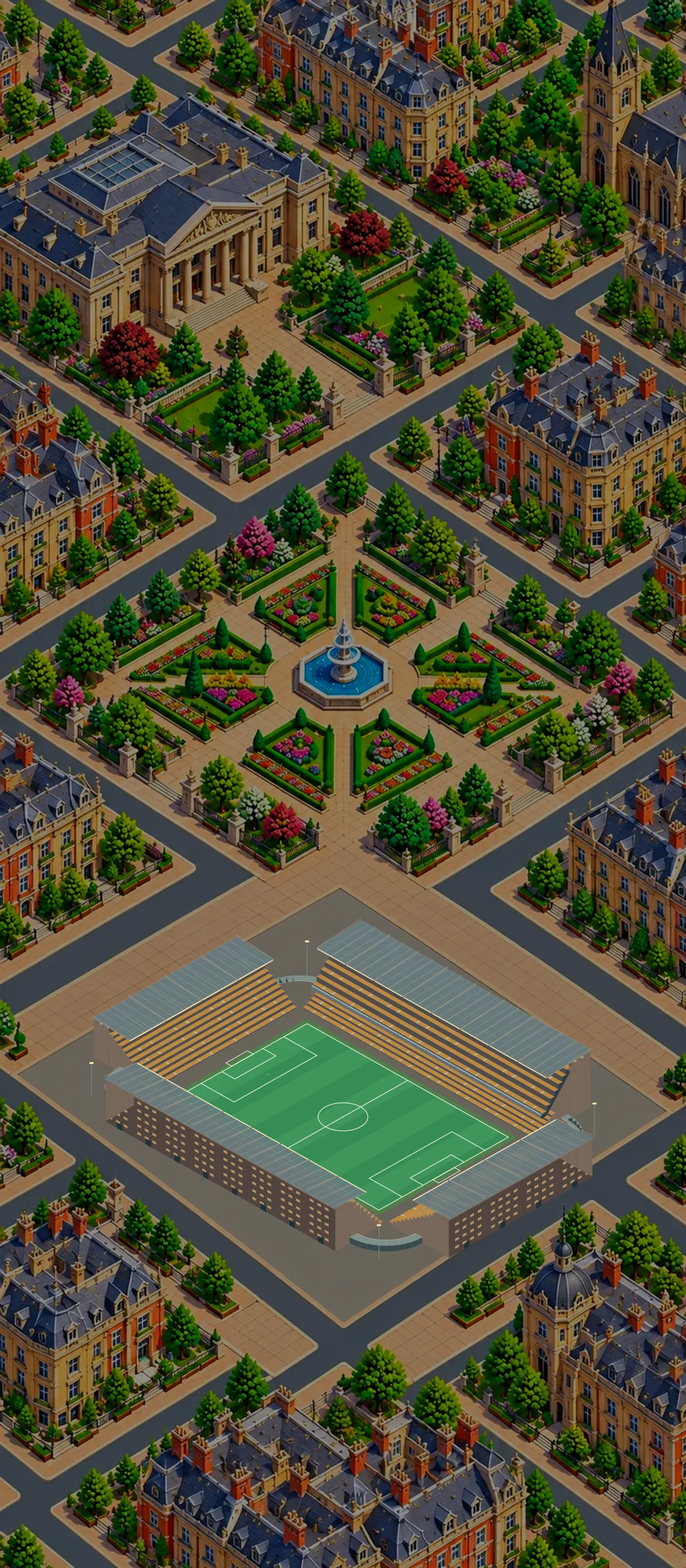
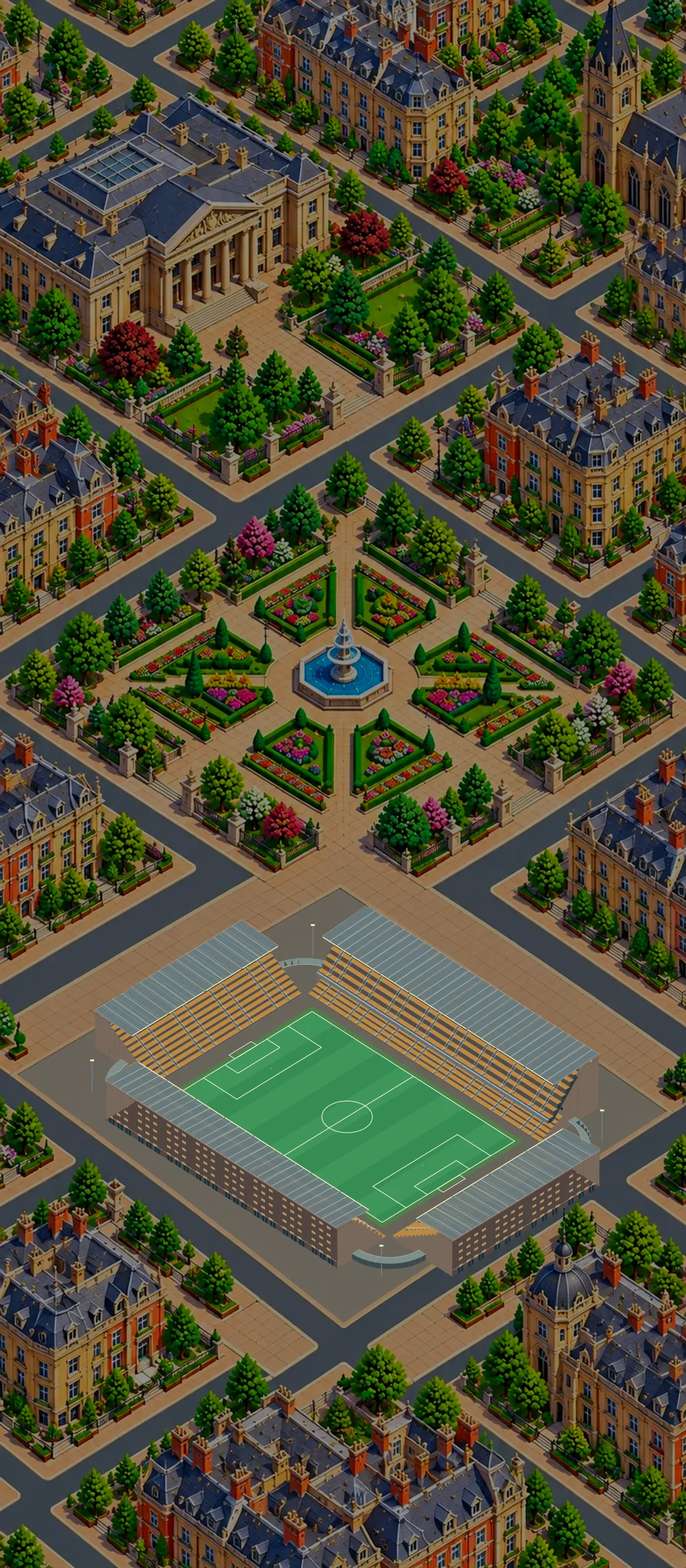
Add files via upload

Changed region(s): [[0.1236, 0.5591, 0.8655, 0.8387]]

diff --git a/scene.js b/scene.js
@@ -2,14 +2,16 @@ import {SECTIONS,STANDS,normaliseLayout,defaultLayout} from './stadium-model.js'
 import {groundsStand} from './grounds-geometry.js';
 // Fixed site plots share the stadium grid. No stadium translation or rotation is exposed.
 const SITE={
- city:{art:'top-city-redevelopment-v2',origin:[415,1200],tile:[6.35,3.62],scale:1.24},
- harbour:{art:'top-city-redevelopment-v2',origin:[415,1200],tile:[6.35,3.62],scale:1.24},
- civic:{art:'top-civic-quarter-v2',origin:[415,1150],tile:[6.4,3.6],scale:1.24},
- riverside:{art:'top-riverside-quarter-v2',origin:[415,1140],tile:[6.4,3.6],scale:1.24},
- gardens:{art:'top-civic-gardens-v2',origin:[415,1350],tile:[6.3,3.55],scale:1.38},
- rail:{art:'top-rail-district-v2',origin:[415,1220],tile:[6.2,3.55],scale:1.32},
- university:{art:'mid-university-district-v2',origin:[415,1150],tile:[6.1,3.5],scale:1.28},
- oldtown:{art:'mid-market-town-v2',origin:[415,1155],tile:[6.05,3.45],scale:1.25}
+ // Ground-plane axes follow the two paved edges of each fixed build plot.
+ // The art is hand painted, so each location has its own calibrated frame.
+ city:{art:'top-city-redevelopment-v2',origin:[410,1190],east:[8.5,5.9],south:[-8.9,5.9]},
+ harbour:{art:'top-city-redevelopment-v2',origin:[410,1190],east:[8.5,5.9],south:[-8.9,5.9]},
+ civic:{art:'top-civic-quarter-v2',origin:[420,1145],east:[8.55,5.0],south:[-8.75,5.0]},
+ riverside:{art:'top-riverside-quarter-v2',origin:[415,1130],east:[8.5,5.7],south:[-8.7,5.45]},
+ gardens:{art:'top-civic-gardens-v2',origin:[420,1350],east:[8.75,5.6],south:[-8.9,5.45]},
+ rail:{art:'top-rail-district-v2',origin:[410,1225],east:[8.65,5.85],south:[-8.9,5.6]},
+ university:{art:'mid-university-district-v2',origin:[410,1160],east:[8.6,5.0],south:[-8.75,5.05]},
+ oldtown:{art:'mid-market-town-v2',origin:[410,1160],east:[7.8,5.0],south:[-8.05,5.15]}
 };
 const ART_WIDTH=830,ART_HEIGHT=1895,SCENE_WIDTH=1100,SCENE_HEIGHT=ART_HEIGHT*SCENE_WIDTH/ART_WIDTH;
 const at=(x,y,z=0)=>({x,y,z}),mix=(a,b,t)=>at(a.x+(b.x-a.x)*t,a.y+(b.y-a.y)*t,a.z+(b.z-a.z)*t);
@@ -17,11 +19,10 @@ const safe=s=>String(s??'').replace(/[&<>"']/g,'');
 export const stadiumProfile=club=>({name:defaultLayout(club).name});
 export function sceneSvg(club,site='city',crowd=false,evening=false,close=false,layout=null,selection=null,motion=null){
  const map=SITE[site]||SITE.city,model=normaliseLayout(layout,club),colour=/^#[0-9a-f]{6}$/i.test(club?.colour||'')?club.colour:'#a03948';
- const px=SCENE_WIDTH/ART_WIDTH,py=SCENE_HEIGHT/ART_HEIGHT,zStep=7.5*map.tile[0]/24*px;
- // A uniform stadium-only visual scale uses the spare apron in the site art.
- // Every pitch line, stand and roof shares the same centre and grid axes.
- const scale=map.scale;
- const project=p=>{const x=36+(p.x-36)*scale,y=30+(p.y-30)*scale,z=(p.z||0)*scale;return {x:(map.origin[0]+((x-y)-6)*map.tile[0])*px,y:(map.origin[1]+((x+y)-66)*map.tile[1])*py-z*zStep}};
+ const px=SCENE_WIDTH/ART_WIDTH,py=SCENE_HEIGHT/ART_HEIGHT,zStep=2.55*px;
+ // All game objects use the same two ground-plane vectors. This keeps the
+ // pitch, tiers, designer hit regions and match animation in one site frame.
+ const project=p=>{const dx=p.x-36,dy=p.y-30,z=p.z||0;return {x:(map.origin[0]+dx*map.east[0]+dy*map.south[0])*px,y:(map.origin[1]+dx*map.east[1]+dy*map.south[1])*py-z*zStep}};
  const coord=p=>{const q=project(p);return `${q.x.toFixed(2)},${q.y.toFixed(2)}`};
  const poly=(pts,fill,extra='')=>`<polygon points="${pts.map(coord).join(' ')}" fill="${fill}" ${extra}/>`;
  const path=(pts,stroke,width=1,extra='')=>`<path d="M${pts.map(coord).join('L')}" fill="none" stroke="${stroke}" stroke-width="${width}" ${extra}/>`;
@@ -111,7 +112,13 @@ export function sceneSvg(club,site='city',crowd=false,evening=false,close=false,
     for(let z=2.4;z+1.1<spec.wallH-.5;z+=3.4)
      facade.push(localFace([[u,D+rear+.02,z],[u+.53,D+rear+.02,z],[u+.53,D+rear+.02,z+1.1],[u,D+rear+.02,z+1.1]],evening?'#d6ae73':mat[2],'opacity=".75"'));
    }
-   facade.push(localFace([[L/2-.37,D+rear+.03,.02],[L/2+.37,D+rear+.03,.02],[L/2+.37,D+rear+.03,2.55],[L/2-.37,D+rear+.03,2.55]],'#1d3138'));
+   // Repeating glazed turnstile bays and a continuous fascia give the outer
+   // concourse a readable scale without putting a wall across the seats.
+   for(const u of [L*.22,L*.5,L*.78]){
+    facade.push(localFace([[u-.36,D+rear+.035,.02],[u+.36,D+rear+.035,.02],[u+.36,D+rear+.035,2.55],[u-.36,D+rear+.035,2.55]],'#172e38'));
+    facade.push(localEdge([[u,D+rear+.04,.2],[u,D+rear+.04,2.4]],'#7c969b',.5));
+   }
+   facade.push(localEdge([[.06,D+rear+.05,3],[L-.06,D+rear+.05,3]],mat[2],.75));
   }
   // Treads and risers use GROUNDS' actual start, pitch, rise and depth.
   // Each deck follows its specified setback or raked overhang profile.
@@ -122,9 +129,20 @@ export function sceneSvg(club,site='city',crowd=false,evening=false,close=false,
     const low=i===0?Math.max(.8,z-.5):z-t.rise;
     panel(bowl,[[0,v,low],[L,v,low],[L,v,z],[0,v,z]],'#504b4b');
     panel(bowl,[[0,v,z],[L,v,z],[L,v1,z],[0,v1,z]],seat,`stroke="#8fa6a3" stroke-width=".2"`);
-    if(!corner&&i%2===0)for(const u of [L/3,2*L/3])
-     bowl.push(localFace([[u-.07,v,z+.02],[u+.07,v,z+.02],[u+.07,Math.min(v1,v+t.tread),z+.02],[u-.07,Math.min(v1,v+t.tread),z+.02]],'#bbc4c0'));
+    if(!corner)for(const u of [L/3,2*L/3]){
+     bowl.push(localFace([[u-.13,v,z+.03],[u+.13,v,z+.03],[u+.13,Math.min(v1,v+t.tread),z+.03],[u-.13,Math.min(v1,v+t.tread),z+.03]],'#5c6a6b'));
+     if(i%2===0)bowl.push(localEdge([[u-.12,v,z+.08],[u-.12,Math.min(v1,v+t.tread),z+.08]],'#d5d0bd',.35));
+    }
     if(crowd&&i%2===0)for(let u=.35;u<L;u+=.7){const q=project(point(u,v+.06,z+.16));bowl.push(`<circle class="spectator ${(i+Math.round(u*10))%9===0?'spectator-active':''}" style="--delay:${((i+Math.round(u*10))%12)*-.15}s" cx="${q.x.toFixed(1)}" cy="${q.y.toFixed(1)}" r=".43" fill="${(i+Math.floor(u*2))%3===0?'#e6c3a9':'#dce4dc'}"/>`)}
+   }
+   if(!corner){
+    const endV=t.startV+t.rows*t.rowPitch,endZ=t.startZ+(t.rows-1)*t.rise;
+    // Aisles climb the rake, rather than appearing as loose marks on each row.
+    for(const u of [L/3,2*L/3]){
+     bowl.push(localEdge([[u-.14,t.startV,t.startZ+.08],[u-.14,endV,endZ+.08]],'#d8d8c3',.5));
+     bowl.push(localEdge([[u+.14,t.startV,t.startZ+.08],[u+.14,endV,endZ+.08]],'#d8d8c3',.5));
+    }
+    bowl.push(localEdge([[.04,endV,endZ+.14],[L-.04,endV,endZ+.14]],'#c4c9c1',.6));
    }
    const d=spec.decks[ti];
    if(d){
@@ -141,6 +159,10 @@ export function sceneSvg(club,site='city',crowd=false,evening=false,close=false,
      panel(bowl,[[0,d.frontV,d.topZ],[L,d.frontV,d.topZ],[L,upper.startV,d.topZ],[0,upper.startV,d.topZ]],'#89969a');
     }
     bowl.push(localEdge([[.06,d.frontV,d.topZ+.24],[L-.06,d.frontV,d.topZ+.24]],'#cdd4d0',.65));
+    if(!corner)for(const u of [L*.19,L*.5,L*.81]){
+     bowl.push(localFace([[u-.34,d.backV+.02,d.baseZ+.12],[u+.34,d.backV+.02,d.baseZ+.12],[u+.34,d.backV+.02,d.topZ-.1],[u-.34,d.backV+.02,d.topZ-.1]],'#102730'));
+     bowl.push(localEdge([[u,d.backV+.04,d.baseZ+.12],[u,d.backV+.04,d.topZ-.1]],'#70888d',.45));
+    }
    }
   }
   // Only the part of an end profile taller than its neighbour is exposed.
@@ -181,7 +203,7 @@ export function sceneSvg(club,site='city',crowd=false,evening=false,close=false,
   if(cfg.roof!=='none'){
    // Full canopies cover the bowl; truss and cantilever roofs expose the
    // lower rake. The former hard-coded front at .42 hid almost every row.
-   const roofFront=(c,sp)=>c.roof==='full'?1.1:c.roof==='cantilever'?sp.partialFrontV*.69:c.roof==='continuous'?sp.partialFrontV*.84:sp.partialFrontV;
+   const roofFront=(c,sp)=>c.roof==='full'?sp.partialFrontV*.60:c.roof==='cantilever'?sp.partialFrontV*.69:c.roof==='continuous'?sp.partialFrontV*.84:sp.partialFrontV;
    const v0=roofFront(cfg,spec),v1=spec.roofRearV+rear;
    const fz=spec.roofFrontZ,rz=spec.roofRearZ+.15;
    const tint=cfg.roof==='continuous'?'#63828b':cfg.finish==='brick'?'#687a7d':'#566d78';
@@ -201,6 +223,8 @@ export function sceneSvg(club,site='city',crowd=false,evening=false,close=false,
     panel(roof,[[0,v0,fz],[L,v0,fz],[L,v1,rz],[0,v1,rz]],tint,`stroke="#94a9ad" stroke-width=".32" opacity="${near?'.9':'.96'}"`);
     panel(roof,[[0,v0,fz-.22],[L,v0,fz-.22],[L,v0,fz],[0,v0,fz]],'#98aaab');
     for(let u=1;u<L;u++)roof.push(localEdge([[u,v0,fz+.01],[u,v1,rz+.01]],'#91a5ad',.44));
+    roof.push(localEdge([[.03,v1,rz+.04],[L-.03,v1,rz+.04]],mat[2],.7));
+    for(const u of [L*.25,L*.5,L*.75])roof.push(localEdge([[u,v0,fz-.17],[u,v1,rz+.04]],'#b1c1c1',.75));
     if(cfg.roof==='truss'||cfg.roof==='cantilever')for(let u of [0,L/2,L])roof.push(localEdge([[u,v0,fz+.05],[u,v1,rz+.9]],mat[2],.65));
     if(evening)roof.push(localEdge([[.08,v0,fz-.2],[L-.08,v0,fz-.2]],'#fff0b1',1.35));
    }

diff --git a/style.css b/style.css
@@ -98,6 +98,10 @@
  .title-screen .build-label{font-size:.6rem}
 }
 /* Release 1.9: squad, fixture history and in-place live match */
+/* Center the compact title controls over the tall scene, leaving the ground below. */
+.title-screen .menu-hero{display:flex;justify-content:center;align-items:flex-start;padding-top:clamp(18px,4vh,58px)}
+.title-screen .hero-copy{margin-inline:auto;width:min(100%,440px)}
+@media(max-width:540px){.title-screen .menu-hero{padding-top:2vh}.title-screen .hero-copy{width:min(78vw,350px);margin-inline:auto}}
 .shirt-slot .mood{top:0;right:1px;left:auto;bottom:auto}.shirt-slot .instructions{top:0;left:1px}.shirt-slot .slot-name{order:2}.shirt-slot .shirt{order:1}.shirt-slot .slot-stats{order:3}.squad-list-heading{margin:13px 0 6px}.bench-list,.reserve-list{max-height:none}.bench-target{position:absolute;right:31px;top:50%;transform:translateY(-50%);color:#e4edf0;background:#ffffff18;border:1px solid #ffffff4a;min-width:27px;height:28px;cursor:pointer}.bench-list .player-card{padding-right:70px}.fixture-row{width:100%;text-align:left;color:var(--text);cursor:pointer}.fixture-row:hover,.fixture-row:focus-visible{border-color:var(--club)}.fixture-switch{display:flex;align-items:center;justify-content:space-between;gap:8px;margin:10px 0 16px}.fixture-switch strong{text-align:center;font-size:.85rem}.history-modal{width:min(680px,100%);position:relative}.league-rank{font:700 .76rem Inter,Arial;color:#cbdce0;text-transform:uppercase;letter-spacing:.08em}.league-rank b{color:#fff;padding-left:7px;font-size:1rem}.career-topbar .league-rank{margin-left:auto}.results-ticker{position:fixed;bottom:0;left:0;right:0;z-index:11;display:flex;align-items:center;background:#f3c94c;color:#142029;height:26px;font:800 .72rem Inter,Arial;overflow:hidden}.ticker-label{flex:none;background:#17242e;color:#f3c94c;padding:6px 10px}.ticker-window{overflow:hidden;white-space:nowrap;flex:1}.ticker-window span{display:inline-block;min-width:max-content;animation:ticker-scroll 36s linear infinite;padding-left:100%}@keyframes ticker-scroll{to{transform:translateX(-100%)}}
 .live-modal{position:relative;width:min(1050px,100%);height:calc(100dvh - 22px);max-height:none;overflow:hidden;display:flex;flex-direction:column;padding:12px}.live-modal .modal-head,.live-modal .modal-head>div{height:100%;min-height:0}.live-modal .modal-head>div{display:flex;flex-direction:column}.live-head{flex:none}.live-head .scoreline{margin:3px 0 8px;font-size:clamp(1.25rem,3.6vw,2rem)}.live-stage{position:relative;flex:none;height:clamp(160px,30vh,300px);overflow:hidden;background:#174135;border:1px solid #6f8589}.live-stage svg{width:100%;height:100%;display:block}.live-event{position:absolute;top:8px;left:8px;right:8px;width:max-content;max-width:calc(100% - 16px);padding:6px 12px;background:#d4454d;color:#fff;font:800 1.2rem 'Barlow Condensed',Arial;box-shadow:0 4px 12px #0009;animation:event-in .5s ease-out}.live-event.yellow{background:#e6bb4b;color:#17242b}.live-event.red,.live-event.injury{background:#b72f3b}@keyframes event-in{from{opacity:0;transform:translateY(-8px)}to{opacity:1;transform:translateY(0)}}.goal-celebration:after{content:'';position:absolute;inset:0;pointer-events:none;animation:goal-lights .3s steps(2,end) 5;box-shadow:inset 0 0 65px #fff8}@keyframes goal-lights{50%{background:#fff9;box-shadow:inset 0 0 100px #ffe994}}.match-athlete{animation:player-step 1.3s ease-in-out infinite alternate;animation-delay:var(--delay)}@keyframes player-step{to{translate:3px -2px}}.match-athletes.celebrating .home{animation:corner-run 1.4s ease-out forwards;animation-delay:var(--delay)}@keyframes corner-run{to{translate:-18px 15px}}.match-ball{animation:ball-drift 1.2s ease-in-out infinite alternate}@keyframes ball-drift{to{translate:10px 2px}}.crowd-motion circle{animation:crowd-pop .7s ease-in-out infinite alternate;animation-delay:var(--delay)}@keyframes crowd-pop{to{opacity:.3;translate:0 -1.5px}}.goal-scene .crowd-motion circle{animation-duration:.16s}.decision-alert{margin:5px 0 0;padding:7px 10px;background:#8d3b2b;color:white;font-size:.75rem;font-weight:700}.live-toolbar{flex:none;margin:5px 0;gap:4px}.live-toolbar .btn{font-size:.7rem;padding:4px 7px;min-height:31px}.live-toolbar small{font-size:.6rem}.live-commentary{flex:1;min-height:0;overflow:hidden;padding:8px;gap:4px}.live-commentary.paused{overflow:auto}.live-commentary .comment{font-size:.72rem;line-height:1.3}.live-decisions{flex:none;background:#142630;border:1px solid #ffffff40;margin-top:5px}.live-decisions summary{cursor:pointer;padding:8px 10px;font-size:.8rem;font-weight:800}.live-decisions[open]{position:absolute;z-index:5;left:12px;right:12px;bottom:12px;max-height:65%;overflow:auto;box-shadow:0 0 0 100vmax #08151bc9}.live-decisions-body{display:grid;grid-template-columns:repeat(3,minmax(0,1fr));gap:7px;padding:8px}.live-decisions-body label{font-size:.72rem}.live-decisions-body select{font-size:.75rem;min-height:36px;padding:5px}.live-subs{grid-column:1/-1}.live-subs .bench{display:flex;flex-wrap:wrap}.live-subs .bench .btn{font-size:.7rem}.live-xi{display:grid;grid-template-columns:repeat(4,minmax(0,1fr));gap:3px}.live-xi .btn{font-size:.68rem;min-height:30px;padding:3px}.history-overlay .commentary{max-height:40vh}
 @media(max-width:850px){.career-topbar .league-rank{grid-column:2/-1;grid-row:1;text-align:right;font-size:.58rem}.career-topbar .brand-home{grid-column:1/2;grid-row:1}.results-ticker{bottom:calc(82px + env(safe-area-inset-bottom));height:25px}.results-ticker .ticker-label{padding:6px}.dash-grid{margin-bottom:135px}.live-stage{height:clamp(140px,27vh,225px)}.live-modal .live-head .scoreline{font-size:1.5rem}.live-toolbar{justify-content:center}.live-toolbar small{display:none}.live-toolbar .btn{font-size:.63rem;min-height:29px;padding:3px 5px}.live-commentary{min-height:50px}.league-rank b{font-size:.84rem}}

diff --git a/app.js b/app.js
@@ -1,7 +1,7 @@
-import {sceneSvg,stadiumProfile} from './scene.js?v=1.13.0';
-import {SECTIONS,STANDS,ROOFS,REARS,FINISHES,defaultLayout,normaliseLayout,capacity,changeCost} from './stadium-model.js?v=1.13.0';
+import {sceneSvg,stadiumProfile} from './scene.js?v=1.14.0';
+import {SECTIONS,STANDS,ROOFS,REARS,FINISHES,defaultLayout,normaliseLayout,capacity,changeCost} from './stadium-model.js?v=1.14.0';
 
-const APP_VERSION='1.13.0';
+const APP_VERSION='1.14.0';
 const SAVE_KEY='clubline-career-r1';
 const SITES=[['civic','Civic Quarter',75000],['riverside','Riverside Quarter',75000],['city','City Waterfront',75000],['gardens','Civic Gardens',70000],['rail','Rail District',60000],['university','University Quarter',45000],['oldtown','Old Town',40000]];
 const availableSites=c=>SITES.filter(([, ,limit])=>c.capacity<=limit);
@@ -36,7 +36,7 @@ let editing=null,selectedStand='N4',selectedStands=new Set(['N4']),opponentOpen=
 let saveWarning='',source,career=null,view='title',section='hub',sub='lineup',setup={clubId:'C01',site:'civic',names:{},colour:null},selectedPlayer=null,selectedSlot=null,instructionPlayer=null,statsScope='club',statsSort='goals',statsDescending=true,match=null,timer=null,notice='',updateMessage='',availableVersion=null,checkingUpdate=false;
 const root=document.getElementById('app');
 
-try {source=await (await fetch('./data/league.json?v=1.13.0',{cache:'no-store'})).json();}
+try {source=await (await fetch('./data/league.json?v=1.14.0',{cache:'no-store'})).json();}
 catch(error){root.innerHTML='<main class="app-shell"><div class="shell-content"><h1>Clubline</h1><p>Could not load the league data. Open the game through a web server or GitHub Pages.</p></div></main>';throw error;}
 const ambitiousIds=new Set(source.clubs.map(c=>source.players.filter(p=>p.clubId===c.id).sort((a,b)=>a.overall-b.overall).slice(0,6).sort((a,b)=>b.potential-a.potential)[0]?.id));
 const menuPlaces=['civic','riverside','city','gardens','rail','university','oldtown'];

diff --git a/index.html b/index.html
@@ -6,13 +6,13 @@
   <meta name="theme-color" content="#111a20">
   <meta name="description" content="Clubline — a compact football club career game.">
   <title>Clubline</title>
-  <link rel="icon" href="assets/icon.svg?v=1.13.0" type="image/svg+xml">
-  <link rel="apple-touch-icon" href="assets/icon-180.png?v=1.13.0">
-  <link rel="manifest" href="manifest.webmanifest?v=1.13.0">
-  <link rel="stylesheet" href="style.css?v=1.13.0">
+  <link rel="icon" href="assets/icon.svg?v=1.14.0" type="image/svg+xml">
+  <link rel="apple-touch-icon" href="assets/icon-180.png?v=1.14.0">
+  <link rel="manifest" href="manifest.webmanifest?v=1.14.0">
+  <link rel="stylesheet" href="style.css?v=1.14.0">
 </head>
 <body>
   <div id="app" aria-live="polite"></div>
-  <script type="module" src="app.js?v=1.13.0"></script>
+  <script type="module" src="app.js?v=1.14.0"></script>
 </body>
 </html>

diff --git a/sw.js b/sw.js
@@ -1,5 +1,5 @@
-const CACHE='clubline-pwa-v1.13.0';
-const CORE=['./','./index.html','./app.js?v=1.13.0','./style.css?v=1.13.0','./data/league.json?v=1.13.0'];
+const CACHE='clubline-pwa-v1.14.0';
+const CORE=['./','./index.html','./app.js?v=1.14.0','./style.css?v=1.14.0','./data/league.json?v=1.14.0'];
 self.addEventListener('install',event=>{
  event.waitUntil(caches.open(CACHE).then(cache=>cache.addAll(CORE)).then(()=>self.skipWaiting()));
 });

diff --git a/README.md b/README.md
@@ -1,14 +1,13 @@
-# Clubline — Release 1.13.0
+# Clubline — Release 1.14.0
 
 Copy **all** ZIP contents into the root of your GitHub Pages repository, including `sw.js`, `assets`, `data` and the HTML/JS/CSS files. Use **Check for updates** in the installed app if it still shows the previous version.
 
-## Fixed stadium locations
+## This pass
 
-- Seven rebuilt portrait sites: Civic Quarter, Riverside Quarter, City Waterfront, Civic Gardens, Rail District, University Quarter and Old Town. Each has several blocks of map above the fixed stadium plot for mobile framing.
-- Plots are empty and have a clear paved edge. Older town and campus settings keep a tighter frontage; larger city grounds have more open space. Painted pedestrians and road vehicles have been removed from the new site art. Riverside/Waterfront boats and the Rail District train remain environmental details.
-- Each location has a fixed stadium position and orientation. The ground and pitch grow together from that datum; there are no placement or rotation controls.
-- Site-specific visual scale fits the generated stands in each plot. A maximum-depth stand preview was checked on all seven locations.
-- Location capacity limits are shown in club setup and enforced in the stadium designer: 40k Old Town, 45k University Quarter, 60k Rail District, 70k Civic Gardens, and 75k at the other three sites. Clubs starting above a site's limit cannot choose it.
-- Seven regenerated engine stadium frames rotate on the start screen. Mobile controls are more compact so the ground can show beneath them.
+- Centered the compact start menu over the portrait scenes, leaving the stadium visible below it.
+- Calibrated the two ground-plane axes separately for each of the seven painted plots. The pitch, stands, roofs, designer selection regions and match sprites all share the same fixed projection.
+- Increased the visual footprint within the paved plots and checked full-size stand configurations against surrounding roads and buildings.
+- Added visible raked aisles, tier edge rails, concourse openings, facade entrance bays and roof structural lines to the editable GROUNDS-based modules. Full roofs now reveal more of the lower seating bowl.
+- Regenerated the 14 start-screen frames from this same live stadium renderer.
 
-The evening versions currently grade the day art darker; separately painted night maps are still to come. The painted surroundings and generated stadium now follow the same approximate isometric axes, but a final pixel-level registration pass may still be needed for every street edge. This release does not add moving pedestrians or traffic.
+The maps are painted assets and their street edges are not mathematically exact throughout. The site calibration fits the build plots visually; a future art pass could make every surrounding road line perfectly parallel. Night scenes still use graded daytime art.
